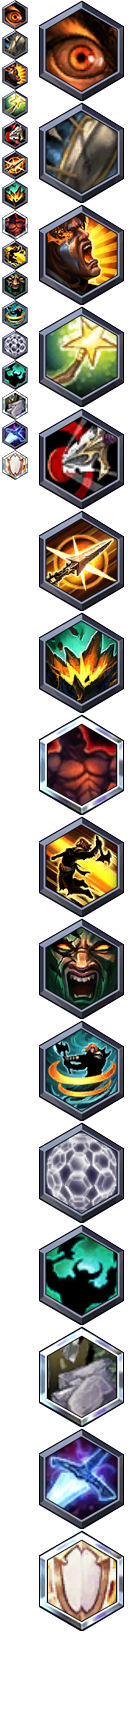
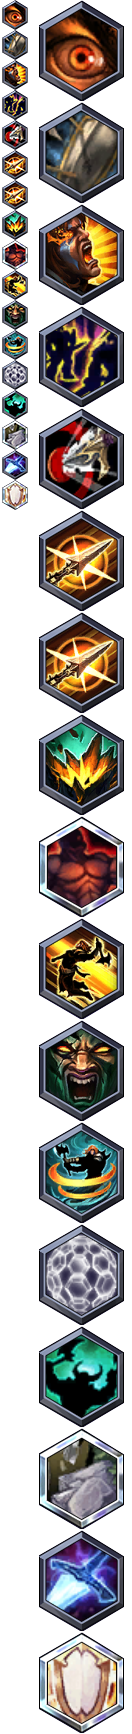
arthas sonya stitches update

Changed region(s): [[0.2727, 0.3426, 0.9394, 1.0], [0.0, 0.0311, 0.2121, 0.3114], [0.3333, 0.1557, 0.9091, 0.2491]]

diff --git a/public/css/style.css b/public/css/style.css
@@ -3605,7 +3605,7 @@ p.white { color: #FFF; }
 .talents-icon.anub-arak.regeneration-master { background-position: 0px -90px; }
 /* Tier 2 */
 .talents-icon.anub-arak.underking { background-position: 0px -120px; }
-.talents-icon.anub-arak.superiority { background-position: 0px -150px; }
+.talents-icon.anub-arak.mercenary-lord { background-position: 0px -150px; }
 .talents-icon.anub-arak.locust-needles { background-position: 0px -180px; }
 .talents-icon.anub-arak.legion-of-beetles { background-position: 0px -60px; }
 /* Tier 3 */
@@ -3641,7 +3641,7 @@ p.white { color: #FFF; }
 .talents-icon.anub-arak.large.regeneration-master { background-position: -30px -306px; }
 /* Tier 2 */
 .talents-icon.anub-arak.large.underking { background-position: -30px -408px; }
-.talents-icon.anub-arak.large.superiority { background-position: -30px -510px; }
+.talents-icon.anub-arak.large.mercenary-lord { background-position: -30px -510px; }
 .talents-icon.anub-arak.large.locust-needles { background-position: -30px -612px; }
 .talents-icon.anub-arak.large.legion-of-beetles { background-position: -30px -204px; }
 /* Tier 3 */
@@ -3676,7 +3676,7 @@ p.white { color: #FFF; }
 .talents-icon.arthas.frost-presence { background-position: 0px -60px; }
 .talents-icon.arthas.regeneration-master { background-position: 0px -90px; }
 /* Tier 2 */
-.talents-icon.arthas.superiority { background-position: 0px -120px; }
+.talents-icon.arthas.mercenary-lord { background-position: 0px -120px; }
 .talents-icon.arthas.destruction { background-position: 0px -30px; }
 .talents-icon.arthas.frozen-wastes { background-position: 0px -150px; }
 /* Tier 3 */
@@ -3710,7 +3710,7 @@ p.white { color: #FFF; }
 .talents-icon.arthas.large.frost-presence { background-position: -30px -204px; }
 .talents-icon.arthas.large.regeneration-master { background-position: -30px -306px; }
 /* Tier 2 */
-.talents-icon.arthas.large.superiority { background-position: -30px -408px; }
+.talents-icon.arthas.large.mercenary-lord { background-position: -30px -408px; }
 .talents-icon.arthas.large.destruction { background-position: -30px -102px; }
 .talents-icon.arthas.large.frozen-wastes { background-position: -30px -510px; }
 /* Tier 3 */
@@ -3750,7 +3750,7 @@ p.white { color: #FFF; }
 .talents-icon.azmodan.gluttony { background-position: 0px -30px; }
 .talents-icon.azmodan.army-of-hell { background-position: 0px -120px; }
 .talents-icon.azmodan.bound-minion { background-position: 0px -150px; }
-.talents-icon.azmodan.superiority { background-position: 0px -180px; }
+.talents-icon.azmodan.mercenary-lord { background-position: 0px -180px; }
 
 /* Tier 3 */
 .talents-icon.azmodan.enduring-warriors { background-position: 0px -120px; }
@@ -3794,7 +3794,7 @@ p.white { color: #FFF; }
 .talents-icon.azmodan.large.gluttony { background-position: -30px -102px; }
 .talents-icon.azmodan.large.army-of-hell { background-position: -30px -408px; }
 .talents-icon.azmodan.large.bound-minion { background-position: -30px -510px; }
-.talents-icon.azmodan.large.superiority { background-position: -30px -612px; }
+.talents-icon.azmodan.large.mercenary-lord { background-position: -30px -612px; }
 
 /* Tier 3 */
 .talents-icon.azmodan.large.enduring-warriors { background-position: -30px -408px; }
@@ -4189,7 +4189,7 @@ p.white { color: #FFF; }
 .talents-icon.gazlowe.extra-tnt { background-position: 0px -60px; }
 .talents-icon.gazlowe.demolitionist { background-position: 0px -90px; }
 /* Tier 2 */
-.talents-icon.gazlowe.superiority { background-position: 0px -120px; }
+.talents-icon.gazlowe.mercenary-lord { background-position: 0px -120px; }
 .talents-icon.gazlowe.reduce-reuse-recycle { background-position: 0px -30px; }
 .talents-icon.gazlowe.clockwerk-steam-fists { background-position: 0px -150px; }
 .talents-icon.gazlowe.promote { background-position: 0px -180px; }
@@ -4227,7 +4227,7 @@ p.white { color: #FFF; }
 .talents-icon.gazlowe.large.extra-tnt { background-position: -30px -204px; }
 .talents-icon.gazlowe.large.demolitionist { background-position: -30px -306px; }
 /* Tier 2 */
-.talents-icon.gazlowe.large.superiority { background-position: -30px -408px; }
+.talents-icon.gazlowe.large.mercenary-lord { background-position: -30px -408px; }
 .talents-icon.gazlowe.large.reduce-reuse-recycle { background-position: -30px -102px; }
 .talents-icon.gazlowe.large.clockwerk-steam-fists { background-position: -30px -510px; }
 .talents-icon.gazlowe.large.promote { background-position: -30px -612px; }
@@ -5138,7 +5138,7 @@ p.white { color: #FFF; }
 .talents-icon.sonya.endless-fury { background-position: 0px -60px; }
 .talents-icon.sonya.shot-of-fury { background-position: 0px -60px; }
 /* Tier 2 */
-.talents-icon.sonya.superiority { background-position: 0px -90px; }
+.talents-icon.sonya.mercenary-lord { background-position: 0px -90px; }
 .talents-icon.sonya.focused-attack { background-position: 0px -120px; }
 .talents-icon.sonya.boon-of-the-ancients { background-position: 0px -150px; }
 .talents-icon.sonya.furious-blow { background-position: 0px -180px; }
@@ -5174,7 +5174,7 @@ p.white { color: #FFF; }
 .talents-icon.sonya.large.endless-fury { background-position: -30px -204px; }
 .talents-icon.sonya.large.shot-of-fury { background-position: -30px -204px; }
 /* Tier 2 */
-.talents-icon.sonya.large.superiority { background-position: -30px -306px; }
+.talents-icon.sonya.large.mercenary-lord { background-position: -30px -306px; }
 .talents-icon.sonya.large.focused-attack { background-position: -30px -408px; }
 .talents-icon.sonya.large.boon-of-the-ancients { background-position: -30px -510px; }
 .talents-icon.sonya.large.furious-blow { background-position: -30px -612px; }
@@ -5211,7 +5211,7 @@ p.white { color: #FFF; }
 .talents-icon.stitches.regeneration-master { background-position: 0px -90px; }
 /* Tier 2 */
 .talents-icon.stitches.amplified-healing { background-position: 0px -120px; }
-.talents-icon.stitches.superiority { background-position: 0px -150px; }
+.talents-icon.stitches.mercenary-lord { background-position: 0px -150px; }
 .talents-icon.stitches.vile-cleaver { background-position: 0px -180px; }
 .talents-icon.stitches.putrid-ground { background-position: 0px -60px; }
 /* Tier 3 */
@@ -5246,7 +5246,7 @@ p.white { color: #FFF; }
 .talents-icon.stitches.large.regeneration-master { background-position: -30px -306px; }
 /* Tier 2 */
 .talents-icon.stitches.large.amplified-healing { background-position: -30px -408px; }
-.talents-icon.stitches.large.superiority { background-position: -30px -510px; }
+.talents-icon.stitches.large.mercenary-lord { background-position: -30px -510px; }
 .talents-icon.stitches.large.vile-cleaver { background-position: -30px -612px; }
 .talents-icon.stitches.large.putrid-ground { background-position: -30px -204px; }
 /* Tier 3 */
